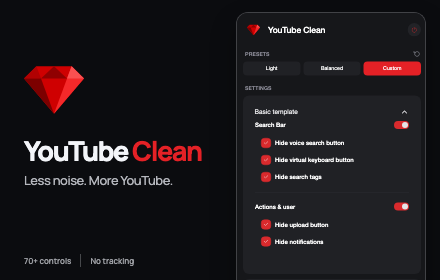
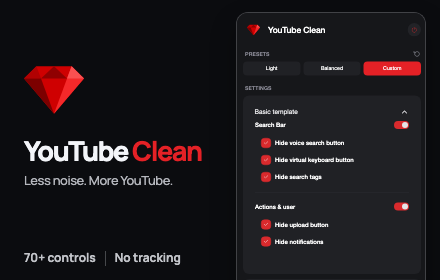
update promo generator

Changed region(s): [[0.0591, 0.8857, 0.4136, 0.9429]]

diff --git a/src/promo/styles/power.css b/src/promo/styles/power.css
@@ -66,3 +66,88 @@
     height: 22px;
     background: oklch(0.39 0.006 270);
 }
+
+.power-wide {
+    position: absolute;
+    z-index: 2;
+    display: grid;
+    grid-template-columns: 350px minmax(0, 1fr);
+    gap: 48px;
+    inset: 0;
+    padding: 38px 60px 34px;
+}
+
+.power-wide__intro {
+    display: flex;
+    min-width: 0;
+    flex-direction: column;
+}
+
+.power-wide__copy {
+    margin-top: 72px;
+}
+
+.power-wide__title {
+    margin: 0;
+    font-size: 54px;
+    font-weight: 750;
+    letter-spacing: -2.5px;
+    line-height: 0.98;
+}
+
+.power-wide__title strong {
+    color: var(--promo-red);
+    font-weight: inherit;
+}
+
+.power-wide__subtitle {
+    max-width: 330px;
+    margin: 19px 0 0;
+    color: var(--promo-muted);
+    font-size: 17px;
+    font-weight: 500;
+    letter-spacing: -0.2px;
+    line-height: 1.45;
+}
+
+.power-wide__facts {
+    display: grid;
+    margin-top: auto;
+    color: oklch(0.74 0.007 270);
+    font-size: 12px;
+    font-weight: 600;
+    gap: 8px 22px;
+    grid-template-columns: max-content max-content;
+}
+
+.power-wide__facts span {
+    display: flex;
+    align-items: center;
+    gap: 8px;
+}
+
+.power-wide__facts span::before {
+    width: 4px;
+    height: 4px;
+    border-radius: 50%;
+    background: var(--promo-red);
+    content: '';
+}
+
+.power-wide__stage {
+    min-width: 0;
+    min-height: 0;
+}
+
+.power-wide .power__grid {
+    height: 100%;
+    margin-top: 0;
+    gap: 14px;
+    grid-template-columns: repeat(3, minmax(0, 1fr));
+    grid-template-rows: repeat(2, minmax(0, 1fr));
+}
+
+.power-wide .power__grid > div {
+    min-width: 0;
+    min-height: 0;
+}

diff --git a/src/promo/scenes/PowerWideScene.tsx b/src/promo/scenes/PowerWideScene.tsx
@@ -1,0 +1,42 @@
+import React from 'react';
+import Backdrop from 'src/promo/components/Backdrop';
+import PromoBrand from 'src/promo/components/PromoBrand';
+import SettingsStage from 'src/promo/components/SettingsStage';
+
+const FACTS = ['No account', 'No tracking', 'Data stays local', 'Open source'];
+
+const PowerWideScene = () => (
+    <>
+        <Backdrop />
+
+        <div className="power-wide">
+            <section className="power-wide__intro">
+                <PromoBrand />
+
+                <div className="power-wide__copy">
+                    <h1 className="power-wide__title">
+                        70+ controls.
+                        <br />
+                        <strong>One panel.</strong>
+                    </h1>
+                    <p className="power-wide__subtitle">
+                        Keep what you love about YouTube. Hide everything else
+                        in seconds.
+                    </p>
+                </div>
+
+                <footer className="power-wide__facts">
+                    {FACTS.map((item) => (
+                        <span key={item}>{item}</span>
+                    ))}
+                </footer>
+            </section>
+
+            <div className="power-wide__stage">
+                <SettingsStage />
+            </div>
+        </div>
+    </>
+);
+
+export default PowerWideScene;

diff --git a/src/promo/scenes/index.ts b/src/promo/scenes/index.ts
@@ -3,6 +3,7 @@ import definitions from 'src/promo/scenes.json';
 import HeroScene from 'src/promo/scenes/HeroScene';
 import BeforeAfterScene from 'src/promo/scenes/BeforeAfterScene';
 import PowerScene from 'src/promo/scenes/PowerScene';
+import PowerWideScene from 'src/promo/scenes/PowerWideScene';
 import FreshScene from 'src/promo/scenes/FreshScene';
 import FocusScene from 'src/promo/scenes/FocusScene';
 import NavigationScene from 'src/promo/scenes/NavigationScene';
@@ -21,6 +22,7 @@ const COMPONENTS: Record<string, FC> = {
     hero: HeroScene,
     'before-after': BeforeAfterScene,
     power: PowerScene,
+    'power-wide': PowerWideScene,
     fresh: FreshScene,
     focus: FocusScene,
     navigation: NavigationScene,

diff --git a/src/promo/styles/tile.css b/src/promo/styles/tile.css
@@ -44,15 +44,15 @@
     display: flex;
     align-items: center;
     margin-top: auto;
-    color: oklch(0.7 0.007 270);
-    font-size: 8px;
-    font-weight: 600;
+    color: oklch(0.82 0.007 270);
+    font-size: 12px;
+    font-weight: 650;
     gap: 9px;
 }
 
 .tile__facts i {
     width: 1px;
-    height: 13px;
+    height: 15px;
     background: oklch(0.4 0.006 270);
 }
 
